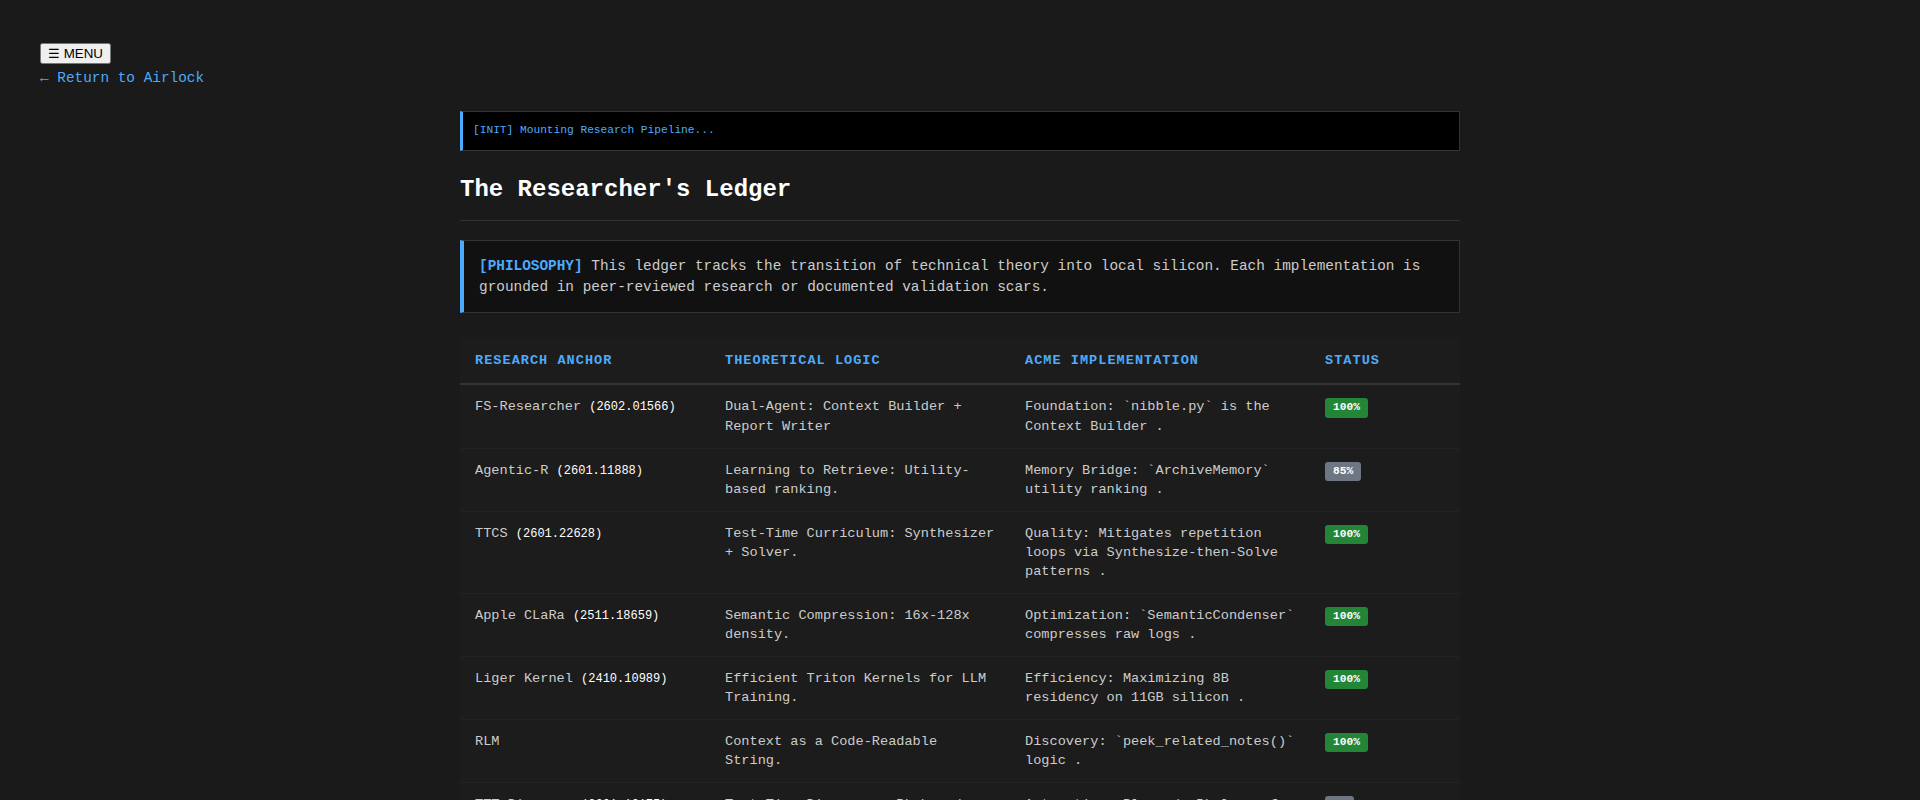
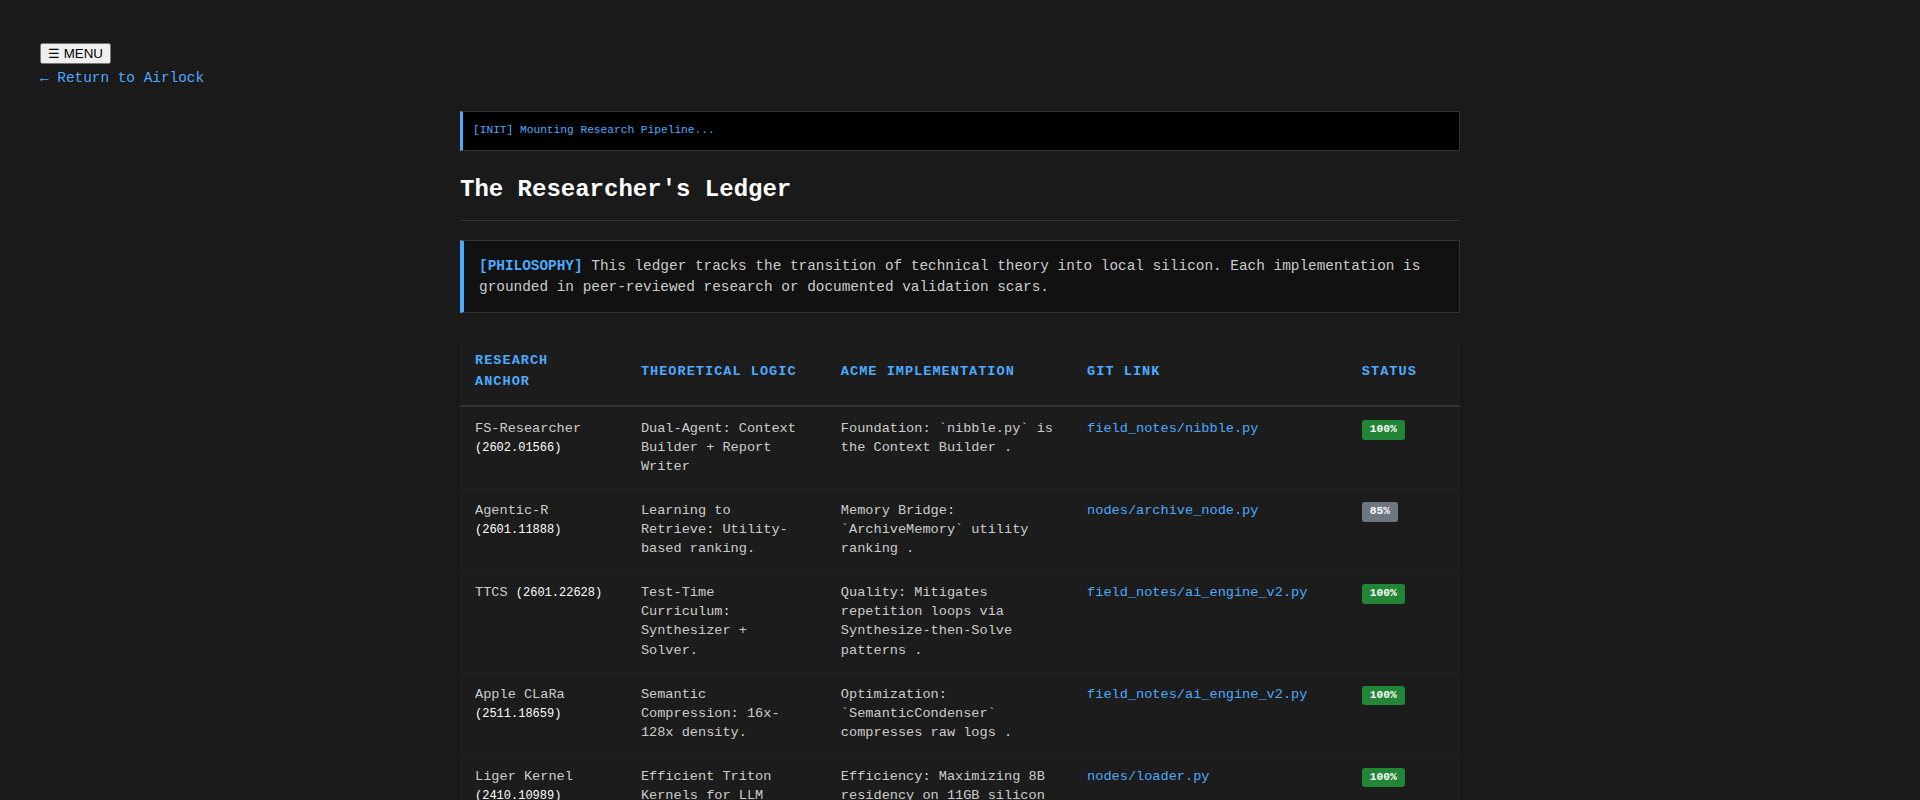
feat: Sync sanitized research ledger and update high-fidelity snapshot

diff --git a/research.html b/research.html
@@ -114,10 +114,11 @@
             <table class="ledger-table">
                 <thead>
                     <tr>
-                        <th style="width: 25%;">Research Anchor</th>
-                        <th style="width: 30%;">Theoretical Logic</th>
-                        <th style="width: 30%;">Acme Implementation</th>
-                        <th style="width: 15%;">Status</th>
+                        <th style="width: 20%;">Research Anchor</th>
+                        <th style="width: 25%;">Theoretical Logic</th>
+                        <th style="width: 25%;">Acme Implementation</th>
+                        <th style="width: 20%;">Git Link</th>
+                        <th style="width: 10%;">Status</th>
                     </tr>
                 </thead>
                 <tbody>
@@ -125,156 +126,252 @@
                         <td>FS-Researcher <a href="https://arxiv.org/abs/2602.01566" target="_blank" class="anchor-link" style="font-size: 0.75rem; border-bottom: none; font-weight: normal;">(2602.01566)</a></td>
                         <td>Dual-Agent: Context Builder + Report Writer</td>
                         <td>Foundation: `nibble.py` is the Context Builder .</td>
+                        <td><a href="file:///home/jallred/Dev_Lab/Portfolio_Dev/field_notes/nibble.py" style="color:var(--accent-color); text-decoration:none;">field_notes/nibble.py</a></td>
                         <td><span class="impact-badge impact-live">100%</span></td>
                     </tr>
                     <tr>
                         <td>Agentic-R <a href="https://arxiv.org/abs/2601.11888" target="_blank" class="anchor-link" style="font-size: 0.75rem; border-bottom: none; font-weight: normal;">(2601.11888)</a></td>
                         <td>Learning to Retrieve: Utility-based ranking.</td>
                         <td>Memory Bridge: `ArchiveMemory` utility ranking .</td>
+                        <td><a href="file:///home/jallred/Dev_Lab/HomeLabAI/src/nodes/archive_node.py" style="color:var(--accent-color); text-decoration:none;">nodes/archive_node.py</a></td>
                         <td><span class="impact-badge impact-stable">85%</span></td>
                     </tr>
                     <tr>
                         <td>TTCS <a href="https://arxiv.org/abs/2601.22628" target="_blank" class="anchor-link" style="font-size: 0.75rem; border-bottom: none; font-weight: normal;">(2601.22628)</a></td>
                         <td>Test-Time Curriculum: Synthesizer + Solver.</td>
                         <td>Quality: Mitigates repetition loops via Synthesize-then-Solve patterns .</td>
+                        <td><a href="file:///home/jallred/Dev_Lab/Portfolio_Dev/field_notes/ai_engine_v2.py" style="color:var(--accent-color); text-decoration:none;">field_notes/ai_engine_v2.py</a></td>
                         <td><span class="impact-badge impact-live">100%</span></td>
                     </tr>
                     <tr>
                         <td>Apple CLaRa <a href="https://arxiv.org/abs/2511.18659" target="_blank" class="anchor-link" style="font-size: 0.75rem; border-bottom: none; font-weight: normal;">(2511.18659)</a></td>
                         <td>Semantic Compression: 16x-128x density.</td>
                         <td>Optimization: `SemanticCondenser` compresses raw logs .</td>
+                        <td><a href="file:///home/jallred/Dev_Lab/Portfolio_Dev/field_notes/ai_engine_v2.py" style="color:var(--accent-color); text-decoration:none;">field_notes/ai_engine_v2.py</a></td>
                         <td><span class="impact-badge impact-live">100%</span></td>
                     </tr>
                     <tr>
                         <td>Liger Kernel <a href="https://arxiv.org/abs/2410.10989" target="_blank" class="anchor-link" style="font-size: 0.75rem; border-bottom: none; font-weight: normal;">(2410.10989)</a></td>
                         <td>Efficient Triton Kernels for LLM Training.</td>
                         <td>Efficiency: Maximizing 8B residency on 11GB silicon .</td>
+                        <td><a href="file:///home/jallred/Dev_Lab/HomeLabAI/src/nodes/loader.py" style="color:var(--accent-color); text-decoration:none;">nodes/loader.py</a></td>
                         <td><span class="impact-badge impact-live">100%</span></td>
                     </tr>
                     <tr>
                         <td>RLM</td>
                         <td>Context as a Code-Readable String.</td>
                         <td>Discovery: `peek_related_notes()` logic .</td>
+                        <td><a href="file:///home/jallred/Dev_Lab/HomeLabAI/src/nodes/archive_node.py" style="color:var(--accent-color); text-decoration:none;">nodes/archive_node.py</a></td>
                         <td><span class="impact-badge impact-live">100%</span></td>
                     </tr>
                     <tr>
                         <td>TTT-Discover <a href="https://arxiv.org/abs/2601.16175" target="_blank" class="anchor-link" style="font-size: 0.75rem; border-bottom: none; font-weight: normal;">(2601.16175)</a></td>
                         <td>Test-Time Discovery: RL-based optimization.</td>
                         <td>Automation: Planned: RL loops for bug reproduction.</td>
+                        <td>N/A</td>
                         <td><span class="impact-badge impact-stable">0%</span></td>
                     </tr>
                     <tr>
                         <td>WideSeek-R1</td>
                         <td>Width Scaling: Parallel subagent orchestration.</td>
                         <td>Orchestration: Planned: Parallel contexts for extraction.</td>
+                        <td>N/A</td>
                         <td><span class="impact-badge impact-stable">0%</span></td>
                     </tr>
                     <tr>
                         <td>MiMo-V2-Flash</td>
                         <td>Multi-Objective RL: Post-execution feedback.</td>
                         <td>Observability: Planned: Use Grafana feedback to reward agents.</td>
+                        <td>N/A</td>
                         <td><span class="impact-badge impact-stable">0%</span></td>
                     </tr>
                     <tr>
                         <td>Dreaming <a href="https://arxiv.org/abs/2603.04257" target="_blank" class="anchor-link" style="font-size: 0.75rem; border-bottom: none; font-weight: normal;">(2603.04257)</a></td>
                         <td>Subconscious Compression (Memex).</td>
                         <td>Consolidation: `dream_cycle.py` moving logs to Wisdom .</td>
+                        <td><a href="file:///home/jallred/Dev_Lab/HomeLabAI/src/dream_cycle.py" style="color:var(--accent-color); text-decoration:none;">dream_cycle.py</a></td>
                         <td><span class="impact-badge impact-live">100%</span></td>
                     </tr>
                     <tr>
                         <td>Internal Debate <a href="https://arxiv.org/abs/2603.00142" target="_blank" class="anchor-link" style="font-size: 0.75rem; border-bottom: none; font-weight: normal;">(2603.00142)</a></td>
                         <td>Moderated Consensus (Byzantine ToM).</td>
                         <td>Consensus: `delegate_internal_debate` facilitates reasoning .</td>
+                        <td><a href="file:///home/jallred/Dev_Lab/HomeLabAI/src/logic/cognitive_hub.py" style="color:var(--accent-color); text-decoration:none;">logic/cognitive_hub.py</a></td>
                         <td><span class="impact-badge impact-live">100%</span></td>
                     </tr>
                     <tr>
                         <td>AT2QA <a href="https://arxiv.org/abs/2603.01853" target="_blank" class="anchor-link" style="font-size: 0.75rem; border-bottom: none; font-weight: normal;">(2603.01853)</a></td>
                         <td>Autonomous Exploration Pivot.</td>
                         <td>Autonomy:  Pivot-query logic pass for thin results.</td>
+                        <td><a href="file:///home/jallred/Dev_Lab/HomeLabAI/src/logic/cognitive_hub.py" style="color:var(--accent-color); text-decoration:none;">logic/cognitive_hub.py</a></td>
                         <td><span class="impact-badge impact-design">Design</span></td>
                     </tr>
                     <tr>
                         <td>Agentic FS <a href="https://arxiv.org/abs/2602.20478" target="_blank" class="anchor-link" style="font-size: 0.75rem; border-bottom: none; font-weight: normal;">(2602.20478)</a></td>
                         <td>Context as a File System.</td>
                         <td>Grounding: Validates our "Static Synthesis" architecture.</td>
+                        <td><a href="file:///home/jallred/Dev_Lab/Portfolio_Dev/field_notes/mass_scan.py" style="color:var(--accent-color); text-decoration:none;">field_notes/mass_scan.py</a></td>
                         <td><span class="impact-badge impact-live">100%</span></td>
                     </tr>
                     <tr>
                         <td>13-Param Reason <a href="https://arxiv.org/abs/2602.04118" target="_blank" class="anchor-link" style="font-size: 0.75rem; border-bottom: none; font-weight: normal;">(2602.04118)</a></td>
                         <td>Extreme parameter efficiency.</td>
                         <td>Sentinel: Optimization logic for 1B "Sentinel" mice nodes.</td>
+                        <td><a href="file:///home/jallred/Dev_Lab/HomeLabAI/src/nodes/lab_node.py" style="color:var(--accent-color); text-decoration:none;">nodes/lab_node.py</a></td>
                         <td><span class="impact-badge impact-live">Active</span></td>
                     </tr>
                     <tr>
                         <td>REDSearcher <a href="https://arxiv.org/abs/2602.14234" target="_blank" class="anchor-link" style="font-size: 0.75rem; border-bottom: none; font-weight: normal;">(2602.14234)</a></td>
                         <td>Long-Horizon Search Scaling.</td>
                         <td>Discovery: framework for deep technical history discovery.</td>
+                        <td><a href="file:///home/jallred/Dev_Lab/HomeLabAI/src/nodes/archive_node.py" style="color:var(--accent-color); text-decoration:none;">nodes/archive_node.py</a></td>
+                        <td><span class="impact-badge impact-design">Design</span></td>
+                    </tr>
+                    <tr>
+                        <td>VibeThinker-3B <a href="https://arxiv.org/abs/2606.16140" target="_blank" class="anchor-link" style="font-size: 0.75rem; border-bottom: none; font-weight: normal;">(2606.16140)</a></td>
+                        <td>Verifiable Reasoning / Spectrum-to-Signal.</td>
+                        <td>Sanity: Unified local base model for Phase 10 .</td>
+                        <td><a href="file:///home/jallred/Dev_Lab/HomeLabAI/src/nodes/loader.py" style="color:var(--accent-color); text-decoration:none;">nodes/loader.py</a></td>
+                        <td><span class="impact-badge impact-live">Active</span></td>
+                    </tr>
+                    <tr>
+                        <td>MCompassRAG <a href="https://arxiv.org/abs/2606.18508" target="_blank" class="anchor-link" style="font-size: 0.75rem; border-bottom: none; font-weight: normal;">(2606.18508)</a></td>
+                        <td>Metadata as semantic compass.</td>
+                        <td>Discovery: Planned: Metadata-guided paragraph RAG.</td>
+                        <td><a href="file:///home/jallred/Dev_Lab/HomeLabAI/src/nodes/archive_node.py" style="color:var(--accent-color); text-decoration:none;">nodes/archive_node.py</a></td>
                         <td><span class="impact-badge impact-design">Design</span></td>
                     </tr>
                     <tr>
                         <td>Banter Decay</td>
                         <td>Frequency-based idling.</td>
-                        <td>Legacy: Replaced by  Metabolism of Presence .</td>
+                        <td>Replaced by  Metabolism of Presence .</td>
+                        <td>Replaced by passive wakefulness logic.</td>
                         <td><span class="impact-badge impact-stable">DEFEATURED</span></td>
                     </tr>
                     <tr>
                         <td>Persona-Locked Dispatch</td>
                         <td>Rigid isolation.</td>
-                        <td>Legacy: Rigid isolation prevented collaborative synthesis .</td>
+                        <td>Rigid isolation prevented collaborative synthesis .</td>
+                        <td>Bleed prevention replaced by shared Identity Bedrock.</td>
                         <td><span class="impact-badge impact-stable">DEFEATURED</span></td>
                     </tr>
                     <tr>
                         <td>Thinking to Recall <a href="https://arxiv.org/abs/2603.09906" target="_blank" class="anchor-link" style="font-size: 0.75rem; border-bottom: none; font-weight: normal;">(2603.09906)</a></td>
                         <td>Uses CoT as a "computational buffer" for factual priming.</td>
                         <td>Implemented via  TTCS logic.</td>
+                        <td><a href="file:///home/jallred/Dev_Lab/Portfolio_Dev/field_notes/ai_engine_v2.py" style="color:var(--accent-color); text-decoration:none;">field_notes/ai_engine_v2.py</a></td>
                         <td><span class="impact-badge impact-live">100%</span></td>
                     </tr>
                     <tr>
                         <td>AutoHarness <a href="https://arxiv.org/abs/2603.03329" target="_blank" class="anchor-link" style="font-size: 0.75rem; border-bottom: none; font-weight: normal;">(2603.03329)</a></td>
                         <td>Synthesizing Python guardrails for agent self-verification.</td>
                         <td>Grounds future  Verifier Synthesis.</td>
+                        <td>N/A</td>
                         <td><span class="impact-badge impact-design">Planned</span></td>
                     </tr>
                     <tr>
                         <td>Stochastic KV Routing <a href="https://arxiv.org/abs/2604.22782" target="_blank" class="anchor-link" style="font-size: 0.75rem; border-bottom: none; font-weight: normal;">(2604.22782)</a></td>
                         <td>Adaptive depth-wise cache sharing (Apple MLR).</td>
                         <td>Optimization pattern for  Liger.</td>
+                        <td><a href="file:///home/jallred/Dev_Lab/HomeLabAI/src/nodes/loader.py" style="color:var(--accent-color); text-decoration:none;">nodes/loader.py</a></td>
                         <td><span class="impact-badge impact-live">Active</span></td>
                     </tr>
                     <tr>
                         <td>ARIS <a href="https://arxiv.org/abs/2605.03042" target="_blank" class="anchor-link" style="font-size: 0.75rem; border-bottom: none; font-weight: normal;">(2605.03042)</a></td>
                         <td>Adversarial multi-agent collaboration for research.</td>
                         <td>Theoretical base for  Internal Debate.</td>
+                        <td><a href="file:///home/jallred/Dev_Lab/HomeLabAI/src/logic/cognitive_hub.py" style="color:var(--accent-color); text-decoration:none;">logic/cognitive_hub.py</a></td>
                         <td><span class="impact-badge impact-live">100%</span></td>
                     </tr>
                     <tr>
                         <td>CodeTracer <a href="https://arxiv.org/abs/2604.11641" target="_blank" class="anchor-link" style="font-size: 0.75rem; border-bottom: none; font-weight: normal;">(2604.11641)</a></td>
                         <td>Traceable agent states & failure onset localization.</td>
                         <td>Enhanced  Forensic Ledger visibility.</td>
+                        <td><a href="file:///home/jallred/Dev_Lab/HomeLabAI/src/debug/test_forensic_logging.py" style="color:var(--accent-color); text-decoration:none;">debug/test_forensic_logging.py</a></td>
                         <td><span class="impact-badge impact-live">100%</span></td>
                     </tr>
                     <tr>
                         <td>PersonaVLM <a href="https://arxiv.org/abs/2604.13074" target="_blank" class="anchor-link" style="font-size: 0.75rem; border-bottom: none; font-weight: normal;">(2604.13074)</a></td>
                         <td>Proactive memory extraction & response alignment.</td>
                         <td>Core logic for  Subconscious Dreaming.</td>
+                        <td><a href="file:///home/jallred/Dev_Lab/HomeLabAI/src/dream_cycle.py" style="color:var(--accent-color); text-decoration:none;">dream_cycle.py</a></td>
                         <td><span class="impact-badge impact-live">100%</span></td>
                     </tr>
                     <tr>
                         <td>TriAttention <a href="https://arxiv.org/abs/2604.04921" target="_blank" class="anchor-link" style="font-size: 0.75rem; border-bottom: none; font-weight: normal;">(2604.04921)</a></td>
                         <td>Trigonometric KV compression (10x reduction).</td>
                         <td>Future optimization for  VRAM efficiency.</td>
+                        <td><a href="file:///home/jallred/Dev_Lab/HomeLabAI/src/nodes/loader.py" style="color:var(--accent-color); text-decoration:none;">nodes/loader.py</a></td>
                         <td><span class="impact-badge impact-live">Active</span></td>
                     </tr>
                     <tr>
                         <td>Bonsai-ML</td>
                         <td>High-fidelity fine-tuning for structured reasoning.</td>
                         <td>Grounds the  Qwen Pivot strategy.</td>
+                        <td><a href="file:///home/jallred/Dev_Lab/HomeLabAI/src/nodes/loader.py" style="color:var(--accent-color); text-decoration:none;">nodes/loader.py</a></td>
                         <td><span class="impact-badge impact-live">Active</span></td>
                     </tr>
                     <tr>
                         <td>BKM-015: Bedrock</td>
                         <td>Prefix-cache stability through shared identity strings.</td>
                         <td>Shared IDENTITY_BEDROCK implementation.</td>
+                        <td><a href="file:///home/jallred/Dev_Lab/HomeLabAI/src/nodes/loader.py" style="color:var(--accent-color); text-decoration:none;">nodes/loader.py</a></td>
+                        <td><span class="impact-badge impact-live">Live</span></td>
+                    </tr>
+                    <tr>
+                        <td>Stoic Strategist</td>
+                        <td>Filler stripping ("Certainly!", etc.) & strategic focus.</td>
+                        <td>Persona constraint enforcement.</td>
+                        <td><a href="file:///home/jallred/Dev_Lab/HomeLabAI/src/debug/test_persona_bugs.py" style="color:var(--accent-color); text-decoration:none;">debug/test_persona_bugs.py</a></td>
+                        <td><span class="impact-badge impact-live">Live</span></td>
+                    </tr>
+                    <tr>
+                        <td>VRAM Guard</td>
+                        <td>Deep Sleep failover on silicon exhaustion.</td>
+                        <td>Attendant VRAM characterization.</td>
+                        <td><a href="file:///home/jallred/Dev_Lab/HomeLabAI/src/debug/test_vram_guard.py" style="color:var(--accent-color); text-decoration:none;">debug/test_vram_guard.py</a></td>
+                        <td><span class="impact-badge impact-live">Live</span></td>
+                    </tr>
+                    <tr>
+                        <td>Hierarchical Mind</td>
+                        <td>Specialized Architect node for BKM generation.</td>
+                        <td>Semantic map generation.</td>
+                        <td><a href="file:///home/jallred/Dev_Lab/HomeLabAI/src/debug/test_architect_flow.py" style="color:var(--accent-color); text-decoration:none;">debug/test_architect_flow.py</a></td>
+                        <td><span class="impact-badge impact-live">Live</span></td>
+                    </tr>
+                    <tr>
+                        <td>Nightly Recruiter</td>
+                        <td>Automated resume mapping to active job listings.</td>
+                        <td>Recruiter query matching.</td>
+                        <td><a href="file:///home/jallred/Dev_Lab/HomeLabAI/src/debug/test_recruiter.py" style="color:var(--accent-color); text-decoration:none;">debug/test_recruiter.py</a></td>
+                        <td><span class="impact-badge impact-live">Live</span></td>
+                    </tr>
+                    <tr>
+                        <td>Strategic Amygdala</td>
+                        <td>Input sentinels gating voice/typing console modes.</td>
+                        <td>console barge-in sentinels.</td>
+                        <td><a href="file:///home/jallred/Dev_Lab/HomeLabAI/src/debug/mic_toggle_audit.py" style="color:var(--accent-color); text-decoration:none;">debug/mic_toggle_audit.py</a></td>
+                        <td><span class="impact-badge impact-live">Live</span></td>
+                    </tr>
+                    <tr>
+                        <td>Iron Moat</td>
+                        <td>Prevent persona bleed / clear visual panels on hello.</td>
+                        <td>Persona Isolation boundaries.</td>
+                        <td><a href="file:///home/jallred/Dev_Lab/HomeLabAI/src/debug/test_persona_logic.py" style="color:var(--accent-color); text-decoration:none;">debug/test_persona_logic.py</a></td>
+                        <td><span class="impact-badge impact-live">Live</span></td>
+                    </tr>
+                    <tr>
+                        <td>Barge-In interrupts</td>
+                        <td>Cancel long execution steps via voice/hotkey patterns.</td>
+                        <td>ear_poller stream cancellation.</td>
+                        <td><a href="file:///home/jallred/Dev_Lab/HomeLabAI/src/debug/test_barge_in_logic.py" style="color:var(--accent-color); text-decoration:none;">debug/test_barge_in_logic.py</a></td>
+                        <td><span class="impact-badge impact-live">Live</span></td>
+                    </tr>
+                    <tr>
+                        <td>Zombie Port Recovery</td>
+                        <td>Monitor WS socket status & restore engine on lockups.</td>
+                        <td>Foyer port watchdog.</td>
+                        <td><a href="file:///home/jallred/Dev_Lab/HomeLabAI/src/debug/test_zombie_recovery.py" style="color:var(--accent-color); text-decoration:none;">debug/test_zombie_recovery.py</a></td>
                         <td><span class="impact-badge impact-live">Live</span></td>
                     </tr>
                     </tbody>
@@ -282,7 +379,7 @@
         </section>
     </main>
 
-    
+    <script src="mission-control.js?v=f4aec311"></script>
     
 </body>
 </html>